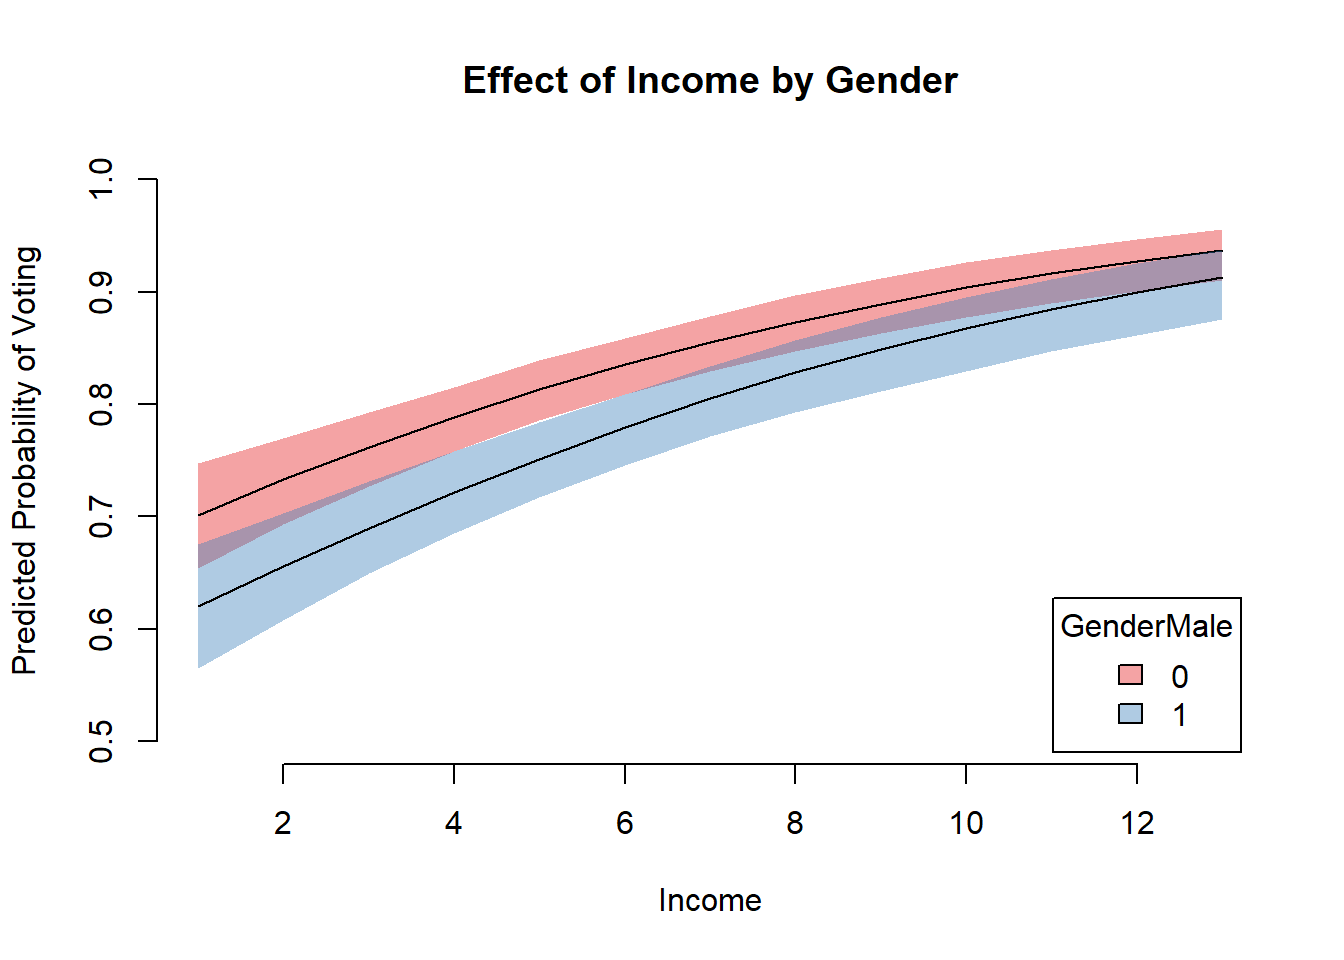
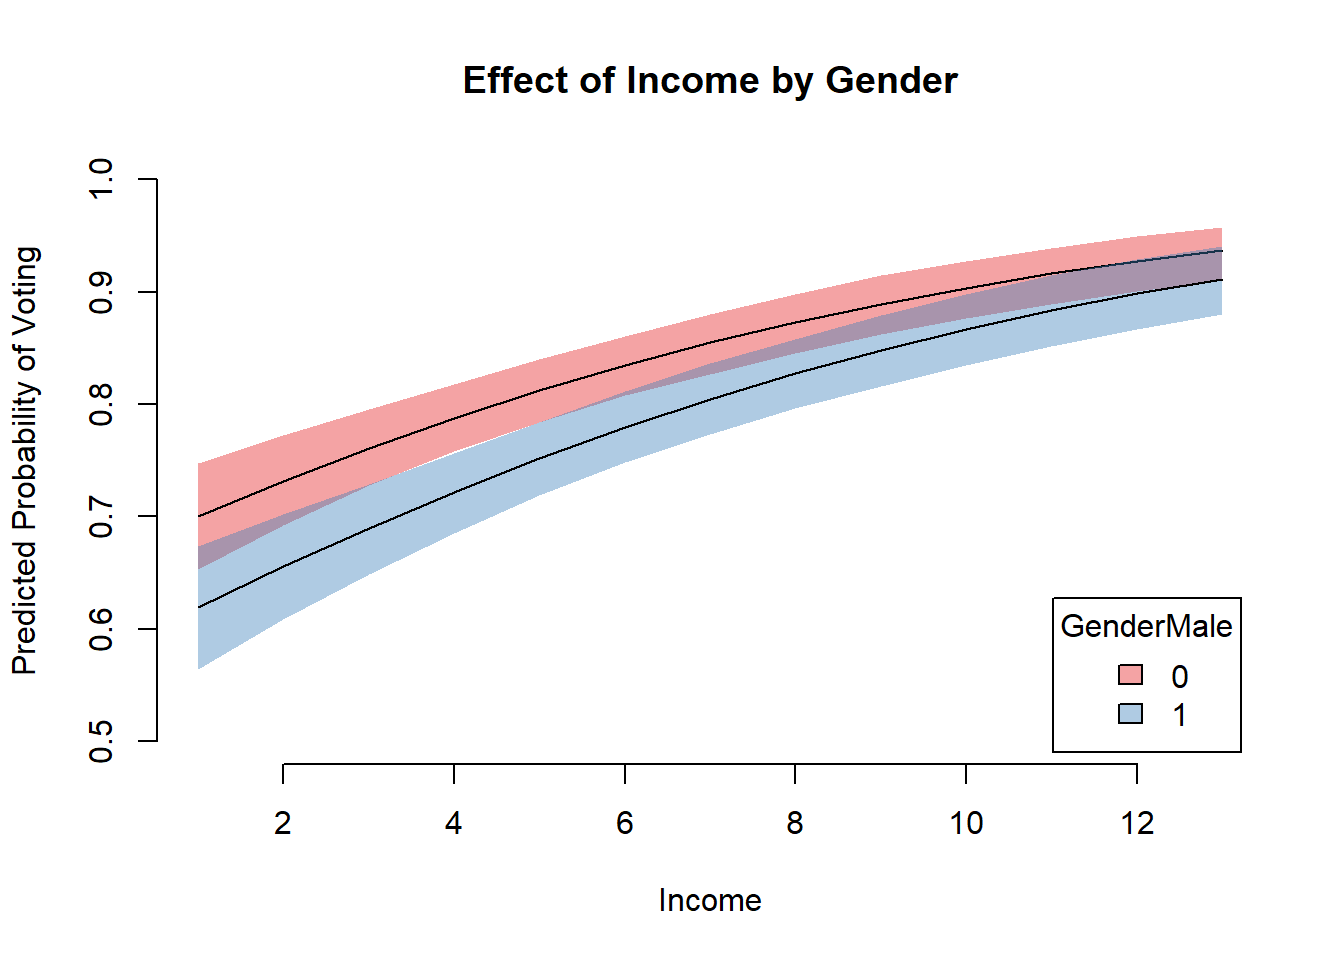
updated docs excluding plot with de-emphasized edges

diff --git a/docs/articles/binary_models.html b/docs/articles/binary_models.html
@@ -141,8 +141,8 @@ sim &lt;-<span class="st"> </span><span class="kw"><a href="../reference/regsim.
 ##    edu19plus   in_school in_uni
 ## p1         0 0.008061408      0
 ## 
-##         mean         sd     2.5%       50%     97.5%
-## p1 0.7609848 0.01569986 0.727844 0.7607182 0.7918448
+##         mean         sd      2.5%       50%     97.5%
+## p1 0.7619005 0.01582821 0.7298459 0.7618069 0.7910449
 ## ------------------------------------------------
 ## 
 ##      Income polinfoindex Influence GenderMale      Age edu15 edu17 edu18
@@ -150,14 +150,14 @@ sim &lt;-<span class="st"> </span><span class="kw"><a href="../reference/regsim.
 ##    edu19plus   in_school in_uni
 ## p2         0 0.008061408      0
 ## 
-##         mean        sd     2.5%       50%     97.5%
-## p2 0.8197962 0.0135739 0.790631 0.8206821 0.8445078
+##         mean         sd     2.5%       50%     97.5%
+## p2 0.8200599 0.01352652 0.792911 0.8198881 0.8450784
 ## ------------------------------------------------
 ## 
 ## First Differences:
 ## 
-##          mean         sd      2.5%        50%      97.5%
-## fd 0.05881139 0.01334102 0.0321701 0.05908877 0.08441508</code></pre>
+##          mean         sd       2.5%        50%     97.5%
+## fd 0.05815937 0.01353075 0.03152555 0.05808976 0.0850349</code></pre>
 <div class="sourceCode"><pre class="sourceCode r"><code class="sourceCode r"><span class="kw">summary</span>(sim, <span class="dt">detail =</span> <span class="ot">TRUE</span>, <span class="dt">rotate =</span> <span class="ot">TRUE</span>)</code></pre></div>
 <pre><code>##                 Profile 1
 ## Income        5.321557318
@@ -172,8 +172,8 @@ sim &lt;-<span class="st"> </span><span class="kw"><a href="../reference/regsim.
 ## in_school     0.008061408
 ## in_uni        0.000000000
 ## 
-##         mean         sd     2.5%       50%     97.5%
-## p1 0.7609848 0.01569986 0.727844 0.7607182 0.7918448
+##         mean         sd      2.5%       50%     97.5%
+## p1 0.7619005 0.01582821 0.7298459 0.7618069 0.7910449
 ## ------------------------------------------------
 ## 
 ##                 Profile 2
@@ -189,14 +189,14 @@ sim &lt;-<span class="st"> </span><span class="kw"><a href="../reference/regsim.
 ## in_school     0.008061408
 ## in_uni        0.000000000
 ## 
-##         mean        sd     2.5%       50%     97.5%
-## p2 0.8197962 0.0135739 0.790631 0.8206821 0.8445078
+##         mean         sd     2.5%       50%     97.5%
+## p2 0.8200599 0.01352652 0.792911 0.8198881 0.8450784
 ## ------------------------------------------------
 ## 
 ## First Differences:
 ## 
-##          mean         sd      2.5%        50%      97.5%
-## fd 0.05881139 0.01334102 0.0321701 0.05908877 0.08441508</code></pre>
+##          mean         sd       2.5%        50%     97.5%
+## fd 0.05815937 0.01353075 0.03152555 0.05808976 0.0850349</code></pre>
 <div class="sourceCode"><pre class="sourceCode r"><code class="sourceCode r">x &lt;-<span class="st"> </span><span class="kw">list</span>(
   <span class="dt">Gender =</span> <span class="kw">c</span>(<span class="st">"Male"</span>, <span class="st">"Female"</span>),
   <span class="dt">Income =</span> <span class="dv">1</span><span class="op">:</span><span class="dv">13</span>
@@ -233,59 +233,59 @@ sim &lt;-<span class="st"> </span><span class="kw"><a href="../reference/regsim.
 ## 25     13     5.409277  3.608508          1 50.91853     0     0     0
 ## 26     13     5.409277  3.608508          0 50.91853     0     0     0
 ##    edu19plus   in_school in_uni      mean         sd      2.5%       50%
-## 1          0 0.008061408      0 0.6207479 0.02823862 0.5654988 0.6203259
-## 2          0 0.008061408      0 0.7009348 0.02406836 0.6543349 0.7013890
-## 3          0 0.008061408      0 0.6562752 0.02422664 0.6080730 0.6563622
-## 4          0 0.008061408      0 0.7322415 0.02018437 0.6931539 0.7331733
-## 5          0 0.008061408      0 0.6901473 0.02088199 0.6494338 0.6899550
-## 6          0 0.008061408      0 0.7613781 0.01710973 0.7268700 0.7616963
-## 7          0 0.008061408      0 0.7220866 0.01839271 0.6855898 0.7216874
-## 8          0 0.008061408      0 0.7882389 0.01492952 0.7583518 0.7884595
-## 9          0 0.008061408      0 0.7518929 0.01682724 0.7176211 0.7514389
-## 10         0 0.008061408      0 0.8127878 0.01360706 0.7862232 0.8132333
-## 11         0 0.008061408      0 0.7794429 0.01608281 0.7460135 0.7797655
-## 12         0 0.008061408      0 0.8350487 0.01296837 0.8088587 0.8358492
-## 13         0 0.008061408      0 0.8046847 0.01591609 0.7719428 0.8054456
-## 14         0 0.008061408      0 0.8550941 0.01276208 0.8293304 0.8554551
-## 15         0 0.008061408      0 0.8276289 0.01604821 0.7930571 0.8283705
-## 16         0 0.008061408      0 0.8730330 0.01275267 0.8471063 0.8733866
-## 17         0 0.008061408      0 0.8483368 0.01625431 0.8120532 0.8492059
-## 18         0 0.008061408      0 0.8889998 0.01277377 0.8630305 0.8893654
-## 19         0 0.008061408      0 0.8669091 0.01639155 0.8296851 0.8681185
-## 20         0 0.008061408      0 0.9031441 0.01273087 0.8775133 0.9039176
-## 21         0 0.008061408      0 0.8834739 0.01638716 0.8470551 0.8847695
-## 22         0 0.008061408      0 0.9156228 0.01258217 0.8899395 0.9164240
-## 23         0 0.008061408      0 0.8981770 0.01621622 0.8618548 0.8996953
-## 24         0 0.008061408      0 0.9265933 0.01231847 0.9006297 0.9275746
-## 25         0 0.008061408      0 0.9111731 0.01588258 0.8755045 0.9127143
-## 26         0 0.008061408      0 0.9362091 0.01194850 0.9104548 0.9371362
+## 1          0 0.008061408      0 0.6204818 0.02890418 0.5641305 0.6197992
+## 2          0 0.008061408      0 0.7001204 0.02475577 0.6528174 0.7005122
+## 3          0 0.008061408      0 0.6560590 0.02469981 0.6083253 0.6558056
+## 4          0 0.008061408      0 0.7315077 0.02081161 0.6923363 0.7317245
+## 5          0 0.008061408      0 0.6899803 0.02118860 0.6489180 0.6898176
+## 6          0 0.008061408      0 0.7607230 0.01771291 0.7281824 0.7605662
+## 7          0 0.008061408      0 0.7219653 0.01857008 0.6856288 0.7217777
+## 8          0 0.008061408      0 0.7876577 0.01554075 0.7579334 0.7875330
+## 9          0 0.008061408      0 0.7518116 0.01691854 0.7195406 0.7518339
+## 10         0 0.008061408      0 0.8122740 0.01424216 0.7843123 0.8124795
+## 11         0 0.008061408      0 0.7793948 0.01612655 0.7485979 0.7794104
+## 12         0 0.008061408      0 0.8345952 0.01362338 0.8079155 0.8344647
+## 13         0 0.008061408      0 0.8046629 0.01593663 0.7731253 0.8046488
+## 14         0 0.008061408      0 0.8546936 0.01342111 0.8270409 0.8550271
+## 15         0 0.008061408      0 0.8276268 0.01605456 0.7968036 0.8274308
+## 16         0 0.008061408      0 0.8726785 0.01339771 0.8459383 0.8729050
+## 17         0 0.008061408      0 0.8483487 0.01624555 0.8165595 0.8484910
+## 18         0 0.008061408      0 0.8886851 0.01338978 0.8621155 0.8891500
+## 19         0 0.008061408      0 0.8669301 0.01636289 0.8349761 0.8669912
+## 20         0 0.008061408      0 0.9028637 0.01330700 0.8764106 0.9034991
+## 21         0 0.008061408      0 0.8835004 0.01633370 0.8517326 0.8839144
+## 22         0 0.008061408      0 0.9153721 0.01311139 0.8890813 0.9164065
+## 23         0 0.008061408      0 0.8982063 0.01613468 0.8667758 0.8985069
+## 24         0 0.008061408      0 0.9263685 0.01279692 0.9006236 0.9276209
+## 25         0 0.008061408      0 0.9112031 0.01577171 0.8803065 0.9117269
+## 26         0 0.008061408      0 0.9360069 0.01237477 0.9105157 0.9372242
 ##        97.5%
-## 1  0.6757193
-## 2  0.7473076
-## 3  0.7035259
-## 4  0.7699761
-## 5  0.7315753
-## 6  0.7933475
-## 7  0.7579555
-## 8  0.8155371
-## 9  0.7840861
-## 10 0.8391665
-## 11 0.8093507
-## 12 0.8592237
-## 13 0.8338201
-## 14 0.8787039
-## 15 0.8567063
-## 16 0.8969124
-## 17 0.8775083
-## 18 0.9124205
-## 19 0.8955301
-## 20 0.9264539
-## 21 0.9112962
-## 22 0.9373056
-## 23 0.9252455
-## 24 0.9466915
-## 25 0.9370852
-## 26 0.9557367</code></pre>
+## 1  0.6740108
+## 2  0.7477587
+## 3  0.7022191
+## 4  0.7726076
+## 5  0.7292627
+## 6  0.7955823
+## 7  0.7569024
+## 8  0.8182678
+## 9  0.7842534
+## 10 0.8398762
+## 11 0.8114676
+## 12 0.8606024
+## 13 0.8362192
+## 14 0.8801728
+## 15 0.8581645
+## 16 0.8978854
+## 17 0.8790734
+## 18 0.9149877
+## 19 0.8979798
+## 20 0.9277489
+## 21 0.9145376
+## 22 0.9390660
+## 23 0.9290074
+## 24 0.9492350
+## 25 0.9406633
+## 26 0.9573613</code></pre>
 <div class="sourceCode"><pre class="sourceCode r"><code class="sourceCode r"><span class="kw">plot</span>(sim, <span class="op">~</span>Income <span class="op">+</span><span class="st"> </span>GenderMale, 
      <span class="dt">ylim =</span> <span class="kw">c</span>(<span class="fl">0.5</span>, <span class="dv">1</span>), 
      <span class="dt">bty =</span> <span class="st">"n"</span>,

diff --git a/docs/articles/interaction_terms.html b/docs/articles/interaction_terms.html
@@ -123,8 +123,8 @@ sim &lt;-<span class="st"> </span><span class="kw"><a href="../reference/regsim.
 ## former_col                  0
 ## wbgi_cce:former_col         0
 ## 
-##         mean         sd      2.5%     50%     97.5%
-## p1 0.6265746 0.03693833 0.5534732 0.62599 0.6977654
+##         mean         sd      2.5%       50%     97.5%
+## p1 0.6288497 0.03772126 0.5539219 0.6290345 0.6988188
 ## ------------------------------------------------
 ## 
 ##                     Profile 2
@@ -132,8 +132,8 @@ sim &lt;-<span class="st"> </span><span class="kw"><a href="../reference/regsim.
 ## former_col                  1
 ## wbgi_cce:former_col        -2
 ## 
-##         mean         sd      2.5%       50%     97.5%
-## p2 0.4060489 0.02681246 0.3538389 0.4061045 0.4567952
+##         mean         sd      2.5%       50%    97.5%
+## p2 0.4072782 0.02774175 0.3526629 0.4068307 0.462501
 ## ------------------------------------------------
 ## 
 ##                     Profile 3
@@ -141,8 +141,8 @@ sim &lt;-<span class="st"> </span><span class="kw"><a href="../reference/regsim.
 ## former_col                  0
 ## wbgi_cce:former_col         0
 ## 
-##         mean         sd      2.5%       50%     97.5%
-## p3 0.7059087 0.02558335 0.6562335 0.7057931 0.7563277
+##        mean        sd    2.5%       50%     97.5%
+## p3 0.707103 0.0259791 0.65413 0.7075046 0.7550073
 ## ------------------------------------------------
 ## 
 ##                     Profile 4
@@ -151,7 +151,7 @@ sim &lt;-<span class="st"> </span><span class="kw"><a href="../reference/regsim.
 ## wbgi_cce:former_col        -1
 ## 
 ##         mean         sd      2.5%       50%     97.5%
-## p4 0.5381596 0.01511554 0.5084802 0.5381595 0.5676756
+## p4 0.5385794 0.01541162 0.5080924 0.5380084 0.5693771
 ## ------------------------------------------------
 ## 
 ##                     Profile 5
@@ -159,8 +159,8 @@ sim &lt;-<span class="st"> </span><span class="kw"><a href="../reference/regsim.
 ## former_col                  0
 ## wbgi_cce:former_col         0
 ## 
-##         mean         sd      2.5%       50%     97.5%
-## p5 0.7852429 0.01712445 0.7532112 0.7853661 0.8182307
+##         mean        sd      2.5%      50%     97.5%
+## p5 0.7853562 0.0170902 0.7539421 0.784235 0.8206221
 ## ------------------------------------------------
 ## 
 ##                     Profile 6
@@ -168,8 +168,8 @@ sim &lt;-<span class="st"> </span><span class="kw"><a href="../reference/regsim.
 ## former_col                  1
 ## wbgi_cce:former_col         0
 ## 
-##         mean        sd      2.5%      50%     97.5%
-## p6 0.6702702 0.0122037 0.6455875 0.670502 0.6927966
+##         mean        sd      2.5%       50%    97.5%
+## p6 0.6698806 0.0116168 0.6481953 0.6695973 0.692535
 ## ------------------------------------------------
 ## 
 ##                     Profile 7
@@ -177,8 +177,8 @@ sim &lt;-<span class="st"> </span><span class="kw"><a href="../reference/regsim.
 ## former_col                  0
 ## wbgi_cce:former_col         0
 ## 
-##        mean         sd      2.5%       50%     97.5%
-## p7 0.864577 0.01675283 0.8314824 0.8649349 0.8956035
+##         mean         sd     2.5%       50%     97.5%
+## p7 0.8636095 0.01656434 0.832471 0.8628291 0.8957074
 ## ------------------------------------------------
 ## 
 ##                     Profile 8
@@ -187,7 +187,7 @@ sim &lt;-<span class="st"> </span><span class="kw"><a href="../reference/regsim.
 ## wbgi_cce:former_col         1
 ## 
 ##         mean         sd      2.5%       50%     97.5%
-## p8 0.8023809 0.02191485 0.7599183 0.8018693 0.8437668
+## p8 0.8011817 0.02149187 0.7619157 0.7997137 0.8455698
 ## ------------------------------------------------
 ## 
 ##                     Profile 9
@@ -195,8 +195,8 @@ sim &lt;-<span class="st"> </span><span class="kw"><a href="../reference/regsim.
 ## former_col                  0
 ## wbgi_cce:former_col         0
 ## 
-##         mean         sd      2.5%       50%     97.5%
-## p9 0.9439112 0.02483425 0.8953781 0.9447602 0.9944145
+##         mean         sd    2.5%       50%     97.5%
+## p9 0.9418627 0.02493635 0.89532 0.9416067 0.9900831
 ## ------------------------------------------------
 ## 
 ##                     Profile 10
@@ -204,8 +204,8 @@ sim &lt;-<span class="st"> </span><span class="kw"><a href="../reference/regsim.
 ## former_col                   1
 ## wbgi_cce:former_col          2
 ## 
-##          mean         sd      2.5%       50%     97.5%
-## p10 0.9344916 0.03496384 0.8686443 0.9329024 0.9994124
+##          mean         sd      2.5%       50%    97.5%
+## p10 0.9324829 0.03490514 0.8671597 0.9309185 1.005119
 ## ------------------------------------------------
 ## 
 ##                     Profile 11
@@ -214,7 +214,7 @@ sim &lt;-<span class="st"> </span><span class="kw"><a href="../reference/regsim.
 ## wbgi_cce:former_col          0
 ## 
 ##         mean         sd      2.5%     50%    97.5%
-## p11 1.023245 0.03607623 0.9526643 1.02352 1.097281
+## p11 1.020116 0.03652953 0.9505794 1.02027 1.089143
 ## ------------------------------------------------
 ## 
 ##                     Profile 12
@@ -222,8 +222,8 @@ sim &lt;-<span class="st"> </span><span class="kw"><a href="../reference/regsim.
 ## former_col                   1
 ## wbgi_cce:former_col          3
 ## 
-##         mean         sd      2.5%      50%   97.5%
-## p12 1.066602 0.04873971 0.9767816 1.064151 1.15658
+##         mean         sd      2.5%      50%    97.5%
+## p12 1.063784 0.04903423 0.9727907 1.062389 1.166221
 ## ------------------------------------------------</code></pre>
 <div class="sourceCode"><pre class="sourceCode r"><code class="sourceCode r"><span class="kw">plot</span>(sim, <span class="op">~</span>wbgi_cce <span class="op">+</span><span class="st"> </span>former_col, <span class="dt">xlab =</span> <span class="st">"Corruption Control"</span>, <span class="dt">ylim =</span> <span class="kw">c</span>(<span class="fl">0.35</span>, <span class="fl">1.15</span>), <span class="dt">bty =</span> <span class="st">"n"</span>)</code></pre></div>
 <p><img src="interaction_terms_files/figure-html/unnamed-chunk-4-1.png" width="672"></p>

diff --git a/docs/reference/plot.regsim.html b/docs/reference/plot.regsim.html
@@ -132,7 +132,7 @@
 
 <span class='no'>model</span> <span class='kw'>&lt;-</span> <span class='fu'>lm</span>(<span class='no'>mpg</span> ~ <span class='no'>wt</span> + <span class='no'>cyl</span>, <span class='kw'>data</span> <span class='kw'>=</span> <span class='no'>mtcars</span>)
 <span class='no'>sim</span> <span class='kw'>&lt;-</span> <span class='fu'><a href='regsim.html'>regsim</a></span>(<span class='no'>model</span>, <span class='fu'>list</span>(<span class='kw'>wt</span> <span class='kw'>=</span> <span class='fu'>seq</span>(<span class='fl'>1</span>, <span class='fl'>5</span>, <span class='fl'>0.1</span>), <span class='kw'>cyl</span> <span class='kw'>=</span> <span class='fu'>mean</span>(<span class='no'>mtcars</span>$<span class='no'>cyl</span>)))
-<span class='fu'>plot</span>(<span class='no'>sim</span>, ~<span class='no'>wt</span>)</div><div class='img'><img src='plot.regsim-1.png' alt='' width='700' height='432.632880098887' /></div></pre>
+<span class='fu'>plot</span>(<span class='no'>sim</span>, ~<span class='no'>wt</span>)</div><div class='img'><img src='plot.regsim-2.png' alt='' width='700' height='432.632880098887' /></div></pre>
   </div>
   <div class="col-md-3 hidden-xs hidden-sm" id="sidebar">
     <h2>Contents</h2>
